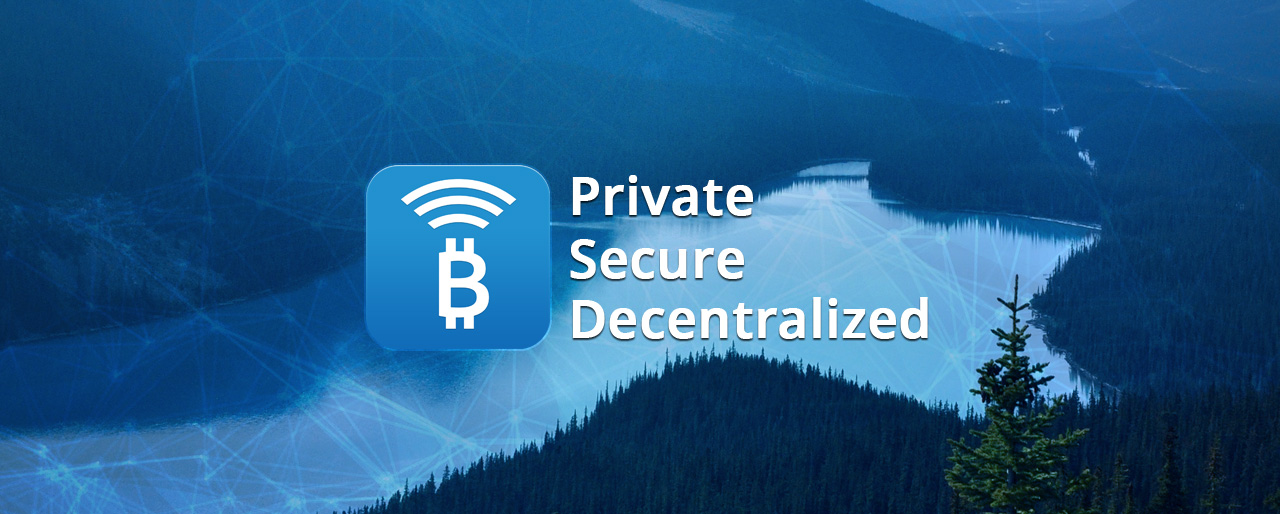
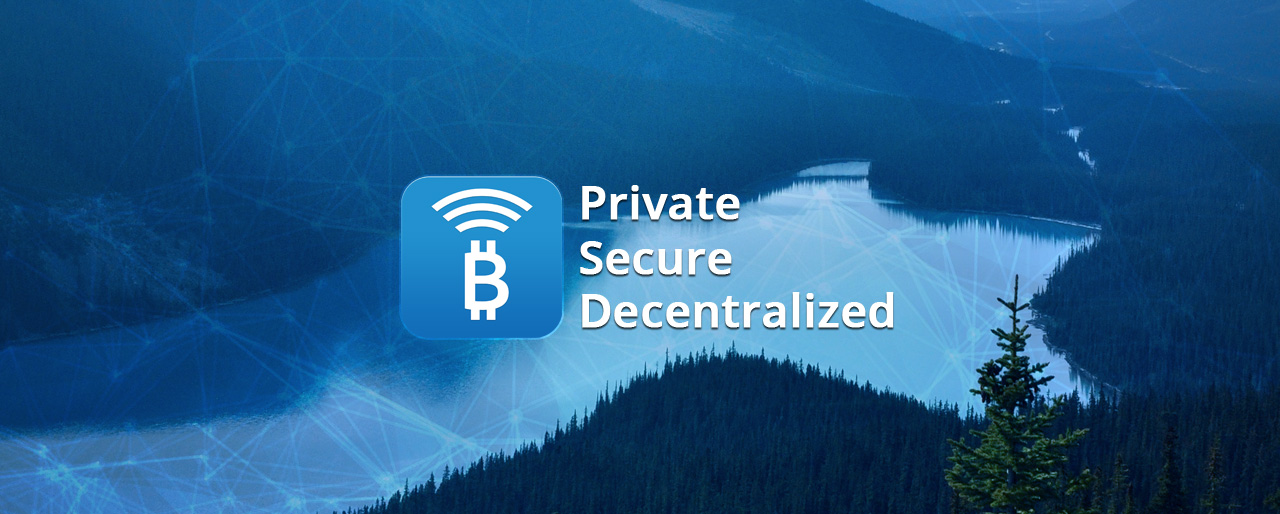
Fixes for mobile device load time and layout

Changed region(s): [[0.2812, 0.3113, 0.75, 0.6848]]

diff --git a/airbitz/airbitz/static/js/min/home-ui-min.js b/airbitz/airbitz/static/js/min/home-ui-min.js
@@ -1,1 +1,1 @@
-function afterEmailSubmission(i){"success"===i.result&&($(".inputEmail").val(""),$(".inputText").val(""))}var screen_lg="screen and (min-width: 992px)";jQuery(function($){$("#email-signup-form").hide(),$("#email-signup-form").on("click",function(){$.ajaxSetup({crossDomain:!0})}),$("#email-signup-form").ajaxChimp({url:"https://airbitz.us3.list-manage.com/subscribe/post?u=af7e442f9bcaaff857bb5da03&amp;id=b7bd36890d",callback:afterEmailSubmission}),$("#app-demo-slides").mouseenter(function(){$("#see-app-in-action").css("visibility","visible"),$("#see-app-in-action").removeClass("animated fadeOut"),$("#see-app-in-action").addClass("animated fadeIn")}),$(".iphone-app-slider .video").magnificPopup({type:"iframe"}),$(".container .video").magnificPopup({type:"iframe"}),$("#app-demo-slides").carouFredSel({width:212,height:378,auto:{play:!0},scroll:{pauseOnHover:!0,fx:"crossfade",duration:1600,onBefore:function(){$("#see-app-in-action").css("visibility","hidden"),$("#see-app-in-action").removeClass("animated fadeIn"),$("#see-app-in-action").addClass("animated fadeOut")}}}),setTimeout(function(){var i=$("#app-store-links"),e=$(".iphone-slider");$(".landing-module").backstretch("resize"),$(".et_pb_slide_image").show(),i.css("visibility","visible"),i.addClass("slideInLeft"),e.css("visibility","visible"),e.addClass("animated bounceInDown")},1250),$(".ab-app-cta .app-install").hover(function(){$(this).find(".app-store").css({zoom:"110%",transition:"all .25s","-webkit-transition":"all .25s","-moz-transition":"all .25s","-0-transition":"all .25s"})},function(){$(this).find(".app-store").css({zoom:"100%"})}),setTimeout(function(){$(".newsletter-signup").hide(),$("#email-signup-form").fadeIn()},5e3),particlesJS("landing-particles",{particles:{color:"#fff",shape:"circle",opacity:.7,size:6,size_random:!0,nb:150,line_linked:{enable_auto:!0,distance:300,color:"#fff",opacity:.4,width:2,condensed_mode:{enable:!1,rotateX:600,rotateY:600}},anim:{enable:!0,speed:.75}},interactivity:{enable:!0,mouse:{distance:300},detect_on:"canvas",mode:"grab",line_linked:{opacity:.4},events:{onclick:{enable:!0,mode:"push",nb:4}}},retina_detect:!0})});
+function afterEmailSubmission(i){"success"===i.result&&($(".inputEmail").val(""),$(".inputText").val(""))}var screen_lg="screen and (min-width: 992px)";jQuery(function($){$("#email-signup-form").hide(),$("#email-signup-form").on("click",function(){$.ajaxSetup({crossDomain:!0})}),$("#email-signup-form").ajaxChimp({url:"https://airbitz.us3.list-manage.com/subscribe/post?u=af7e442f9bcaaff857bb5da03&amp;id=b7bd36890d",callback:afterEmailSubmission}),$("#app-demo-slides").mouseenter(function(){$("#see-app-in-action").css("visibility","visible"),$("#see-app-in-action").removeClass("animated fadeOut"),$("#see-app-in-action").addClass("animated fadeIn")}),$(".iphone-app-slider .video").magnificPopup({type:"iframe"}),$(".container .video").magnificPopup({type:"iframe"}),$("#app-demo-slides").carouFredSel({width:212,height:378,auto:{play:!0},scroll:{pauseOnHover:!0,fx:"crossfade",duration:1600,onBefore:function(){$("#see-app-in-action").css("visibility","hidden"),$("#see-app-in-action").removeClass("animated fadeIn"),$("#see-app-in-action").addClass("animated fadeOut")}}}),setTimeout(function(){var i=$("#app-store-links"),e=$(".iphone-slider");$(".landing-module").backstretch("resize"),$(".et_pb_slide_image").show(),i.css("visibility","visible"),i.addClass("slideInLeft"),e.css("visibility","visible"),e.addClass("animated bounceInDown")},1250),$(".ab-app-cta .app-install").hover(function(){$(this).find(".app-store").css({zoom:"110%",transition:"all .25s","-webkit-transition":"all .25s","-moz-transition":"all .25s","-0-transition":"all .25s"})},function(){$(this).find(".app-store").css({zoom:"100%"})}),setTimeout(function(){$(".newsletter-signup").hide(),$("#email-signup-form").fadeIn()},5e3),bowser.android||bowser.ios||particlesJS("landing-particles",{particles:{color:"#fff",shape:"circle",opacity:.7,size:6,size_random:!0,nb:150,line_linked:{enable_auto:!0,distance:300,color:"#fff",opacity:.4,width:2,condensed_mode:{enable:!1,rotateX:600,rotateY:600}},anim:{enable:!0,speed:.75}},interactivity:{enable:!0,mouse:{distance:300},detect_on:"canvas",mode:"grab",line_linked:{opacity:.4},events:{onclick:{enable:!0,mode:"push",nb:4}}},retina_detect:!0})});

diff --git a/airbitz/airbitz/static/js/home-ui.js b/airbitz/airbitz/static/js/home-ui.js
@@ -88,54 +88,55 @@ jQuery(function($) {
   }, 5000);
 
 
-
-/* config dom id (optional) + config particles params */
-particlesJS('landing-particles', {
-  particles: {
-    color: '#fff',
-    shape: 'circle', // "circle", "edge" or "triangle"
-    opacity:.7,
-    size: 6,
-    size_random: true,
-    nb: 150,
-    line_linked: {
-      enable_auto: true,
-      distance: 300,
+if(!bowser.android && !bowser.ios ) {
+  /* config dom id (optional) + config particles params */
+  particlesJS('landing-particles', {
+    particles: {
       color: '#fff',
-      opacity:.4,
-      width: 2,
-      condensed_mode: {
-        enable: false,
-        rotateX: 600,
-        rotateY: 600
-      }
-    },
-    anim: {
-      enable: true,
-      speed:.75
-    }
-  },
-  interactivity: {
-    enable: true,
-    mouse: {
-      distance: 300
-    },
-    detect_on: 'canvas', // "canvas" or "window"
-    mode: 'grab',
-    line_linked: {
-      opacity: .4
-    },
-    events: {
-      onclick: {
+      shape: 'circle', // "circle", "edge" or "triangle"
+      opacity:.7,
+      size: 6,
+      size_random: true,
+      nb: 150,
+      line_linked: {
+        enable_auto: true,
+        distance: 300,
+        color: '#fff',
+        opacity:.4,
+        width: 2,
+        condensed_mode: {
+          enable: false,
+          rotateX: 600,
+          rotateY: 600
+        }
+      },
+      anim: {
         enable: true,
-        mode: 'push', // "push" or "remove"
-        nb: 4
+        speed:.75
       }
-    }
-  },
-  /* Retina Display Support */
-  retina_detect: true
-});
+    },
+    interactivity: {
+      enable: true,
+      mouse: {
+        distance: 300
+      },
+      detect_on: 'canvas', // "canvas" or "window"
+      mode: 'grab',
+      line_linked: {
+        opacity: .4
+      },
+      events: {
+        onclick: {
+          enable: true,
+          mode: 'push', // "push" or "remove"
+          nb: 4
+        }
+      }
+    },
+    /* Retina Display Support */
+    retina_detect: true
+  });
+}
 
 
 // BUTTON SCROLL AND DRAW ATTENTION
